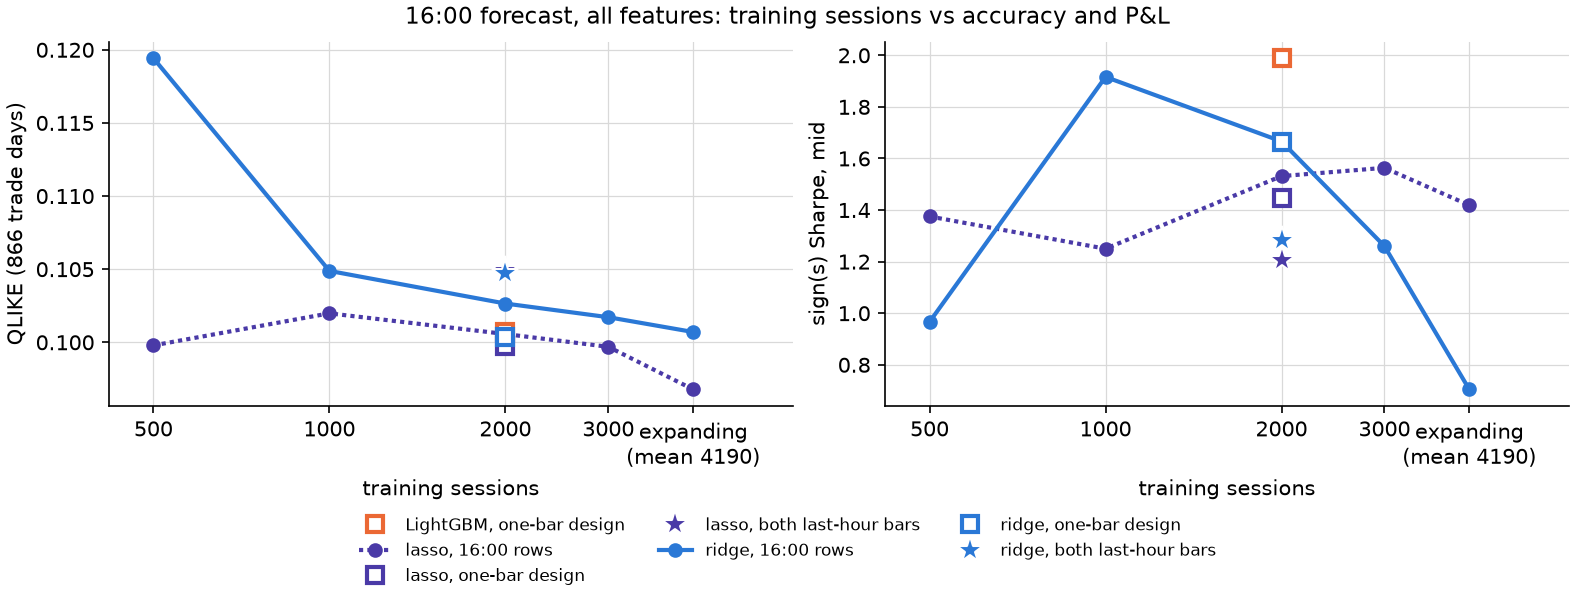
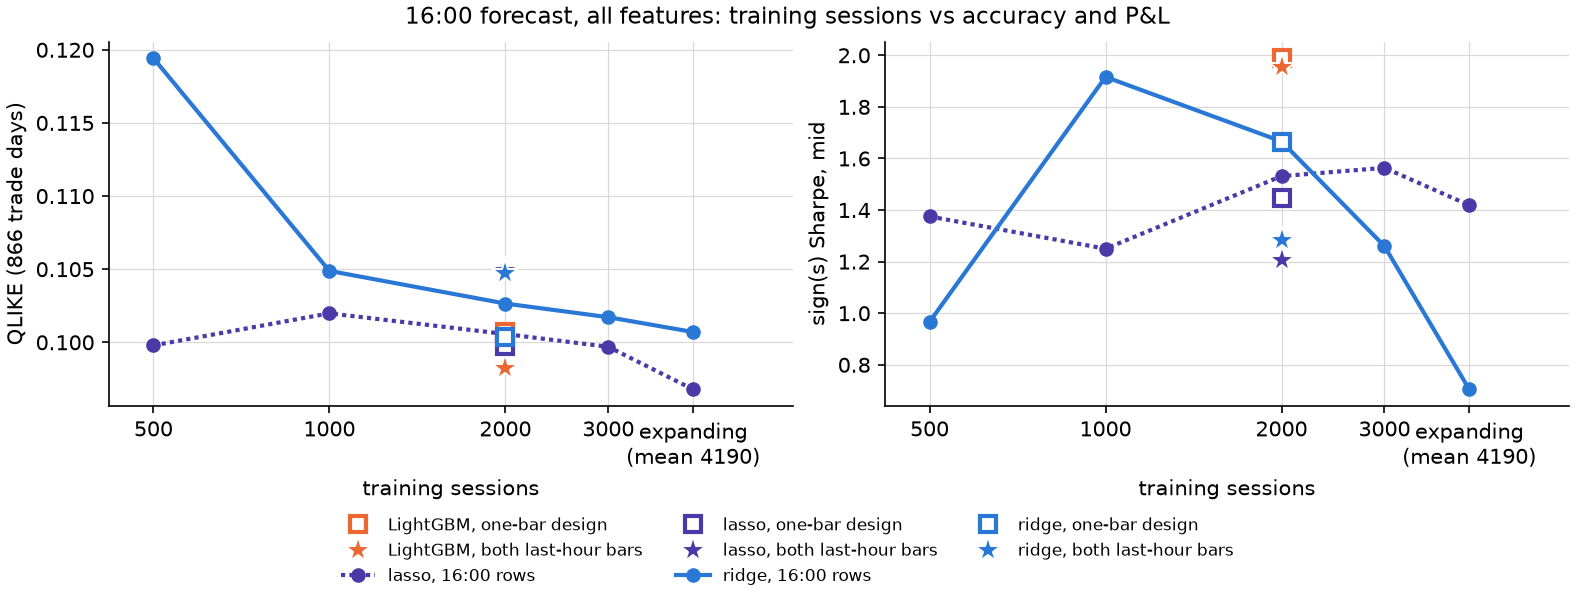
WIP snapshot: data-size and pre-tune interim tables mid-run (not final)
Claude-Session: https://claude.ai/code/session_01ExxYmfkeSs8J19Auttq95f

Changed region(s): [[0.2178, 0.84, 0.7778, 0.99], [0.8089, 0.09, 0.84, 0.12], [0.3111, 0.6, 0.3422, 0.63]]

diff --git a/experiments/close_trees_pretune_report.py b/experiments/close_trees_pretune_report.py
@@ -324,11 +324,13 @@ def write_summary(recs, cur, chk, arms, info) -> None:
             f"{c['dist_to_final'] * 100:.0f} % | {int(r['rounds'])} | {fmt_cfg(r)} |"
         )
     w("")
+    n_rt = int(rtt.groupby("row")["trial"].max().max()) + 1 if not rtt.empty else C.RETUNE_TRIALS
     if not rlog.empty:
         w("## Light retunes (every 250 sessions from 2020)")
         w("")
         w(
-            f"At each retune row: {C.RETUNE_TRIALS} trials (trial 0 = the incumbent) of a TPE study (seed "
+            f"At each retune row: {n_rt} trials (trial 0 = the incumbent; TPE draws its first 10 trials at random, so "
+            f"{'every challenger here is a random draw in the box' if n_rt <= 10 else 'the first 9 challengers are random draws in the box'}) of a TPE study (seed "
             f"{C.TPE_SEED_BASE} + study seed + row) confined to a box around the incumbent ({C.NEIGHBOURHOOD_FRACTION:g} of "
             "each axis's range, log units on log axes), validated on the 250 sessions before the row as 2 folds of 125 "
             "sessions (each its own 2000-session fit block, 25-session embargo), on the 16:00-bar design. retune_any "
@@ -387,6 +389,19 @@ def write_summary(recs, cur, chk, arms, info) -> None:
       "merged sequence's first k x studies trials), frozen; "
       "`retune_any_r10` / `retune_margin_r10` the final pre-tuned configuration plus the light retunes above. "
       "Stored rows: the master table's forecast tables scored by this script (gate above).")
+    w("## CPU used by this run (fit seconds, one thread each)")
+    w("")
+    pre_h = sum(r["fold_sec"].sum() for r in recs) / 3600
+    w(f"- pre-tune: {pre_h:.2f} core-hours of fold fits ({sum(len(r['val_mse']) for r in recs)} trials)")
+    if not rtt.empty:
+        w(f"- retunes: {rtt['sec'].sum() / 3600:.2f} core-hours")
+    for lg in (C.WORK / "logs" / f"walk_{C.TAG}_{C.MODEL}_r10.log", C.RUN / "walk_r10.log"):
+        if lg.is_file():
+            done = [x for x in lg.read_text().splitlines() if "walk done:" in x]
+            if done:
+                w(f"- walk refits (refit every 10): {done[-1].split('walk done: ')[1]}")
+            break
+    w("")
     est = cluster_estimate(recs, arms)
     if est:
         w("## CPU estimate for the full-size cluster run (from this run's fit times)")

diff --git a/results/close_studies_2026-10-03/trees_datasize/SUMMARY.md b/results/close_studies_2026-10-03/trees_datasize/SUMMARY.md
@@ -58,6 +58,7 @@ Question (the user's note): *not enough training data for trees? -> last hour (2
 | arm | model | rows | window | QLIKE | Sharpe mid | Sharpe crossed | DM vs control | HAC t vs control | CPU min |
 |---|---|---|---|---|---|---|---|---|---|
 | `lgbm_bar1600_w2000` | LightGBM | 16:00 rows, one-bar design (shipped) | 2000 sessions | 0.1007 | 1.99 | 1.52 |  |  | 21.3 |
+| `lgbm_pool_w4000` | LightGBM | both last-hour bars (last30 design) | 2000 sessions (4000 rows) | 0.0982 | 1.95 | 1.48 | -1.16 | -0.13 | 22.6 |
 | `ridge_bar1600_w2000` | ridge | 16:00 rows, one-bar design (shipped) | 2000 sessions | 0.1004 | 1.66 | 1.20 | -0.07 | -0.79 | 0.1 |
 | `ridge_pool_w4000` | ridge | both last-hour bars (last30 design) | 2000 sessions (4000 rows) | 0.1048 | 1.29 | 0.82 | 0.88 | -1.46 | 0.2 |
 | `ridge_h16_w500` | ridge | 16:00 rows of the last30 design | 500 sessions | 0.1194 | 0.97 | 0.49 | 2.20 | -1.87 | 0.1 |
@@ -79,6 +80,7 @@ Question (the user's note): *not enough training data for trees? -> last hour (2
 
 | arm | reference | dQLIKE | dQLIKE % | DM | dSharpe mid | HAC t |
 |---|---|---|---|---|---|---|
+| `lgbm_pool_w4000` | `lgbm_bar1600_w2000` | -0.0024 | -2.4 | -1.16 | -0.03 | -0.13 |
 | `ridge_bar1600_w2000` | `ridge_h16_w2000` | -0.0023 | -2.2 | -1.47 | -0.00 | -0.01 |
 | `ridge_pool_w4000` | `ridge_bar1600_w2000` | +0.0044 | +4.4 | 1.40 | -0.38 | -0.98 |
 | `ridge_pool_w4000` | `ridge_h16_w2000` | +0.0021 | +2.1 | 0.67 | -0.38 | -0.99 |
@@ -111,7 +113,18 @@ dQLIKE < 0 and DM < 0: the tree has the lower loss; dSharpe > 0 and HAC t > 0: t
 | tree arm | linear arm | rows | window | QLIKE tree | QLIKE linear | dQLIKE | DM | Sharpe tree | Sharpe linear | HAC t |
 |---|---|---|---|---|---|---|---|---|---|---|
 | `lgbm_bar1600_w2000` | `ridge_bar1600_w2000` | 16:00 rows, one-bar design (shipped) | 2000 sessions | 0.1007 | 0.1004 | +0.0003 | 0.07 | 1.99 | 1.66 | 0.79 |
+| `lgbm_pool_w4000` | `ridge_pool_w4000` | both last-hour bars (last30 design) | 2000 sessions (4000 rows) | 0.0982 | 0.1048 | -0.0065 | -1.50 | 1.95 | 1.29 | 1.55 |
 | `lgbm_bar1600_w2000` | `lasso_bar1600_w2000` | 16:00 rows, one-bar design (shipped) | 2000 sessions | 0.1007 | 0.0998 | +0.0009 | 0.28 | 1.99 | 1.45 | 1.46 |
+| `lgbm_pool_w4000` | `lasso_pool_w4000` | both last-hour bars (last30 design) | 2000 sessions (4000 rows) | 0.0982 | 0.1049 | -0.0067 | -1.66 | 1.95 | 1.21 | 1.93 |
+
+## Does more data help the trees more than the linear models? (difference in differences)
+
+dQLIKE tree = the tree's QLIKE change from the reference window to the new rows; the same for the linear model; DiD = tree change minus linear change (negative = more rows help the tree more). DM is on the daily series of differences; HAC t on the daily P&L series of differences (positive = more rows raise the tree's P&L more than the linear model's).
+
+| tree | linear | change | dQLIKE tree | dQLIKE linear | DiD | DM | dSharpe tree | dSharpe linear | HAC t |
+|---|---|---|---|---|---|---|---|---|---|
+| LightGBM | ridge | bar1600_w2000 -> pool_w4000 | -0.0024 | +0.0044 | -0.0068 | -2.08 | -0.03 | -0.38 | 0.86 |
+| LightGBM | lasso | bar1600_w2000 -> pool_w4000 | -0.0024 | +0.0052 | -0.0076 | -1.71 | -0.03 | -0.24 | 0.44 |
 
 ## Learning curve (16:00 rows of the last30 design)
 
@@ -126,9 +139,10 @@ dQLIKE < 0 and DM < 0: the tree has the lower loss; dSharpe > 0 and HAC t > 0: t
 | expanding (3565..4815 sessions) | 0.0968 | 0.1007 | 1.42 | 0.70 |
 
 ## Not run
-- Arms of the plan not run in this container's CPU budget: `lgbm_pool_w4000`, `lgbm_h16_w2000`, `lgbm_h16_wexp`, `lgbm_h16_w500`, `lgbm_h16_w1000`, `lgbm_h16_w3000`, `xgb_bar1600_w2000`, `xgb_pool_w4000`. The `closing` segment (5 bars, 14:00-16:00) was not built. `cluster/close_trees_datasize_h2_task.sh` + `cluster/submit_close_trees_datasize_h2.sh` run any arm of the script on Hoffman2 (not submitted).
+- Arms of the plan not run in this container's CPU budget: `lgbm_h16_w2000`, `lgbm_h16_wexp`, `lgbm_h16_w500`, `lgbm_h16_w1000`, `lgbm_h16_w3000`, `xgb_bar1600_w2000`, `xgb_pool_w4000`. The `closing` segment (5 bars, 14:00-16:00) was not built.
+- Hoffman2 version (written, smoke-tested locally at tiny size, NOT submitted): `cluster/close_trees_datasize_h2_task.sh` + `cluster/submit_close_trees_datasize_h2.sh`, 176 single-slot tasks in `cluster/close_trees_datasize_h2_tasks.txt` (each arm cut into 8 time chunks, joined by `merge`): refit every 10 sessions: `xgb_bar1600_w2000`, `xgb_pool_w4000`, `rf_bar1600_w2000`, `rf_pool_w4000`, `rf_h16_w2000`, `rf_h16_wexp`, `xgb_h16_w2000`, `xgb_h16_wexp`, `xgb_h16_w500`, `xgb_h16_w1000`, `xgb_h16_w3000`; refit every 1 session: `lgbm_bar1600_w2000`, `lgbm_pool_w4000`, `lgbm_h16_w2000`, `lgbm_h16_wexp`, `lgbm_h16_w500`, `lgbm_h16_w1000`, `lgbm_h16_w3000`, `xgb_bar1600_w2000`, `xgb_pool_w4000`, `xgb_h16_w2000`, `xgb_h16_wexp`. The local control's LightGBM fit took 9.9 s on one core here, so one arm refit every session (1339 fits) is about 3.7 CPU-hours.
 
 ## Files
 - `experiments/close_trees_datasize.py` (run stage), `experiments/close_trees_datasize_analyze.py` (this report)
 - `arms.csv`, `vs_reference.csv`, `tree_minus_linear.csv`, `trees_vs_linear.csv`, `curve.csv`, `gates.csv`, `learning_curve.png`; forecasts in `_work/<arm>.npz` (not committed)
-- CPU: 34 min over 15 arms, one single-threaded process at a time.
+- CPU: 56 min over 16 arms, one single-threaded process at a time.
